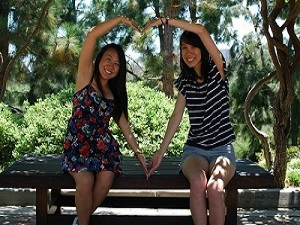
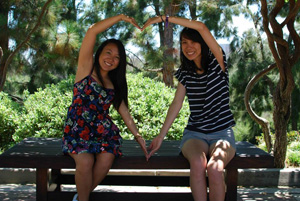
photos

diff --git a/weddingparty.html b/weddingparty.html
@@ -39,7 +39,7 @@
 					</div>
 				</div>
 				<div id="bio">
-					<img src="leslie.jpg">
+					<img src="les.jpg">
 					<div id="description">
 						<h8>LESLIE JONAN</h8><br>
 						<h10>MAID OF HONOR</h10>
